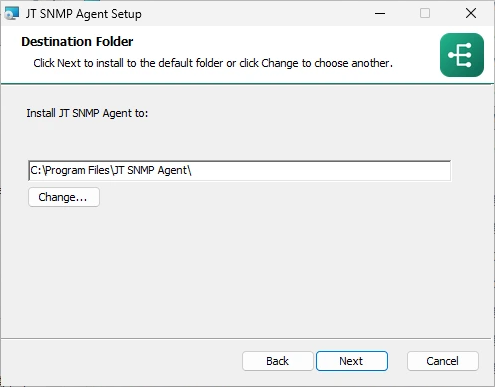
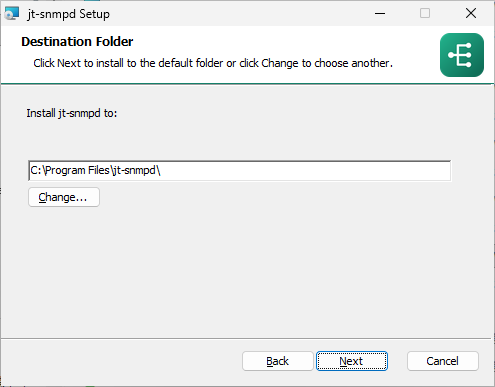
Verify the whole installer lifecycle on hardware, and retake the screenshots
Driven over RDP against 192.168.1.154, using the released 0.9.7 MSI downloaded
and hash-checked on the machine itself.

  upgrade    0.9.6 -> 0.9.7 with the pre-rename data directory present.
             index-map.json came across byte for byte (sha256 7B8AAD84...,
             first_seen still 2026-08-24), the old directory was removed, and
             the earlier logs were archived under logs\pre-0.9.6\.
  removal    msiexec /x with PURGE=1: service gone, both data directories gone,
             both install directories gone, firewall rules gone, product
             registration gone, and the built-in SNMP service restored to
             Running/Automatic and holding UDP 161 again.
  install    A clean graphical installation on the emptied machine. Community
             left blank on purpose, so the installer carried it over from the
             running built-in service; it matches the value taken before the
             test began, so monitoring is unaffected. LibreNMS shows the device
             up and polled.

The empty-networks guard was exercised too: pressing Next with the field blank
brings up the prompt rather than continuing.

Screenshots are retaken from this run and none is retouched. The previous set
had the settings page edited to replace a real management network and a
throwaway community; this one was captured with the documentation values typed
in, so there was nothing to alter. All six pages now, the completion page
included.
[…]

diff --git a/docs/index.html b/docs/index.html
@@ -488,13 +488,17 @@ footer .wrap{display:flex;flex-wrap:wrap;gap:16px;justify-content:space-between}
         <span class="en"><b>4. Monitoring settings</b> — the two required values</span></figcaption></figure>
     <figure><img class="shot" src="images/install-5-ready.png" alt="">
       <figcaption><span class="zh">5. 確認後開始安裝</span><span class="en">5. Confirm and install</span></figcaption></figure>
+    <figure><img class="shot" src="images/install-6-done.png" alt="">
+      <figcaption><span class="zh">6. 完成</span><span class="en">6. Done</span></figcaption></figure>
   </div>
   <p class="sub">
     <span class="zh">管理網段沒填就無法繼續，因為空清單等於只回應 loopback：裝好了，但沒有在監控。
-      畫面中的值是文件用範例（<code>10.0.0.0/24</code>、<code>your-community</code>）。</span>
+      畫面中的值是文件用範例（<code>10.0.0.0/24</code>、<code>your-community</code>），
+      截圖取自實機上執行的發行版安裝檔，未經修改。</span>
     <span class="en">It will not continue without a management network, because an empty list means the
       agent answers only loopback: installed, but not monitoring. The values shown are documentation
-      examples (<code>10.0.0.0/24</code>, <code>your-community</code>).</span>
+      examples (<code>10.0.0.0/24</code>, <code>your-community</code>). The captures are of the
+      released installer running on real hardware, unretouched.</span>
   </p>
 
   <h3 class="way">

diff --git a/docs/images/REVIEWED.md b/docs/images/REVIEWED.md
@@ -29,11 +29,12 @@ the review has to happen again.
[17 lines of base64/hex data omitted]

diff --git a/CHANGELOG.md b/CHANGELOG.md
@@ -167,6 +167,15 @@ mutation: restoring the previous value turns it red.
 
 ## [0.9.7] - 2026-08-25
 
+### Added
+
+- **The wizard screenshots are retaken from the released 0.9.7 installer on real
+  hardware, and none of them is retouched.** The earlier set had the settings
+  page edited to replace a real management network and a throwaway community
+  with documentation values; this set was captured with the documentation values
+  typed in, so there is nothing to alter. It also covers all six pages, the
+  completion page included.
+
 ### Fixed
 
 - **The data directory migration could never run.** 0.9.6 moved the data

diff --git a/CHANGELOG_zh-TW.md b/CHANGELOG_zh-TW.md
@@ -141,6 +141,13 @@ English version: [CHANGELOG.md](CHANGELOG.md)
 
 ## [0.9.7] - 2026-08-25
 
+### 新增
+
+- **精靈截圖改為在實機上執行 0.9.7 發行版安裝檔重新擷取，而且沒有任何一張被修改。**
+  先前那組的設定頁曾以文件用值取代真實的管理網段與臨時 community；
+  這一組是直接把文件用值輸入後擷取的，所以沒有東西需要修改。
+  這次也涵蓋全部六頁，包含完成頁。
+
 ### 修正
 
 - **資料目錄的搬移永遠不會執行。** 0.9.6 為了配合改名而搬移資料目錄，
